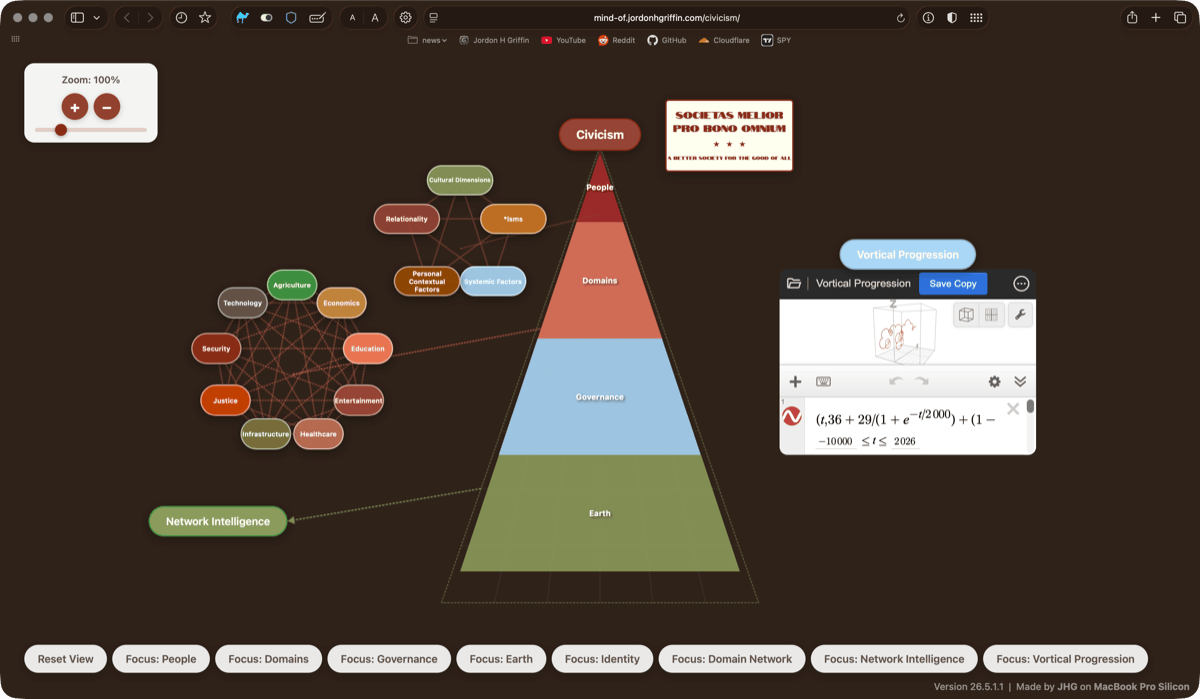
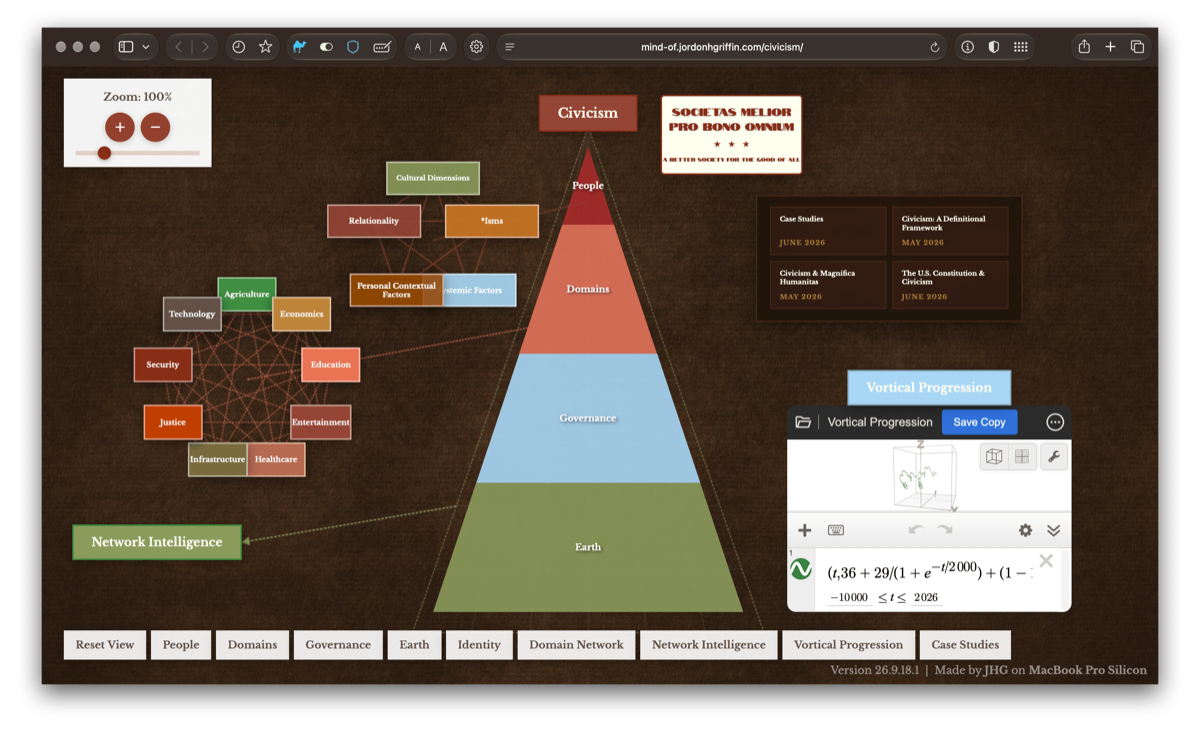
26.9.18.1 - regenerated Civicism and Vortical Progression preview images

diff --git a/index.html b/index.html
@@ -1,5 +1,5 @@
 <!doctype html>
-<!-- Version 26.8.19.2 - added Oakwild Network preview card -->
+<!-- Version 26.9.18.1 - regenerated Civicism and Vortical Progression preview images -->
 <html lang="en">
   <head>
     <meta charset="utf-8" />
@@ -3473,6 +3473,6 @@
         requestAnimationFrame(step);
       })();
     </script>
-    <footer>Version 26.8.19.2 · Made by <a href="https://jordonhgriffin.com">JHG</a> on <a href="https://en.wikipedia.org/wiki/MacBook_Pro_(Apple_silicon)" target="_blank" rel="noopener">MacBook Pro Silicon</a></footer>
+    <footer>Version 26.9.18.1 · Made by <a href="https://jordonhgriffin.com">JHG</a> on <a href="https://en.wikipedia.org/wiki/MacBook_Pro_(Apple_silicon)" target="_blank" rel="noopener">MacBook Pro Silicon</a></footer>
   </body>
 </html>
